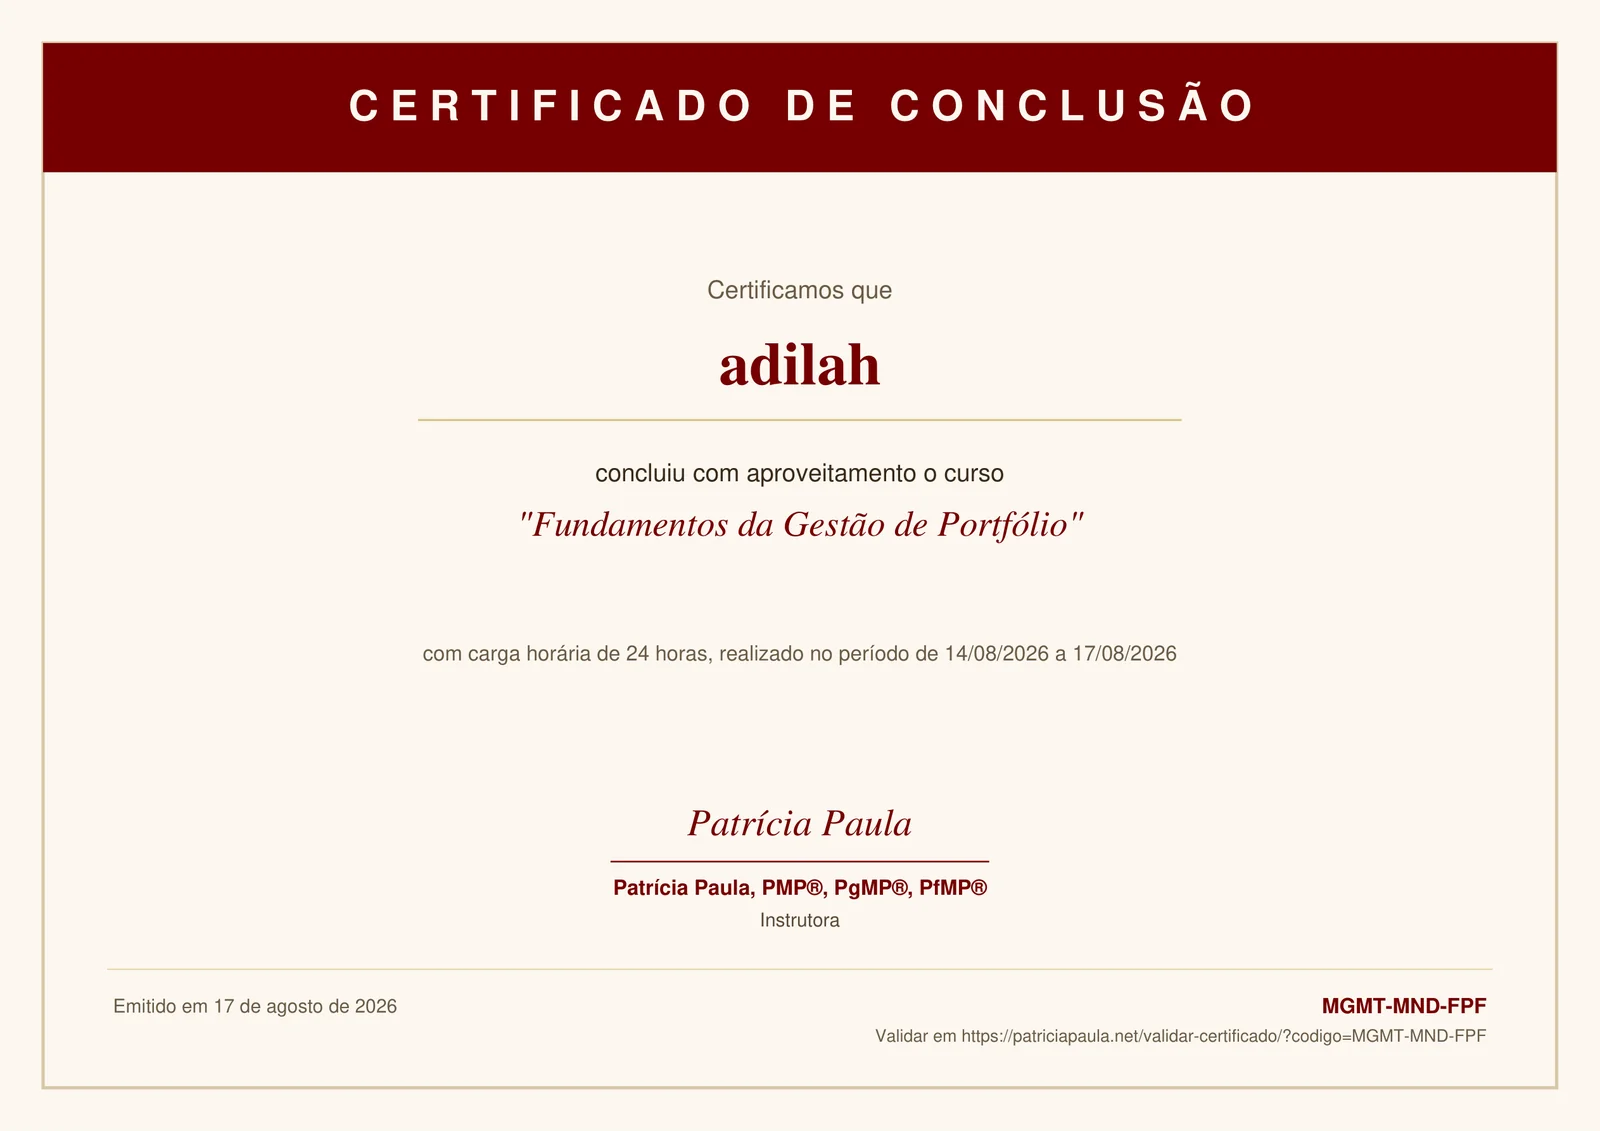
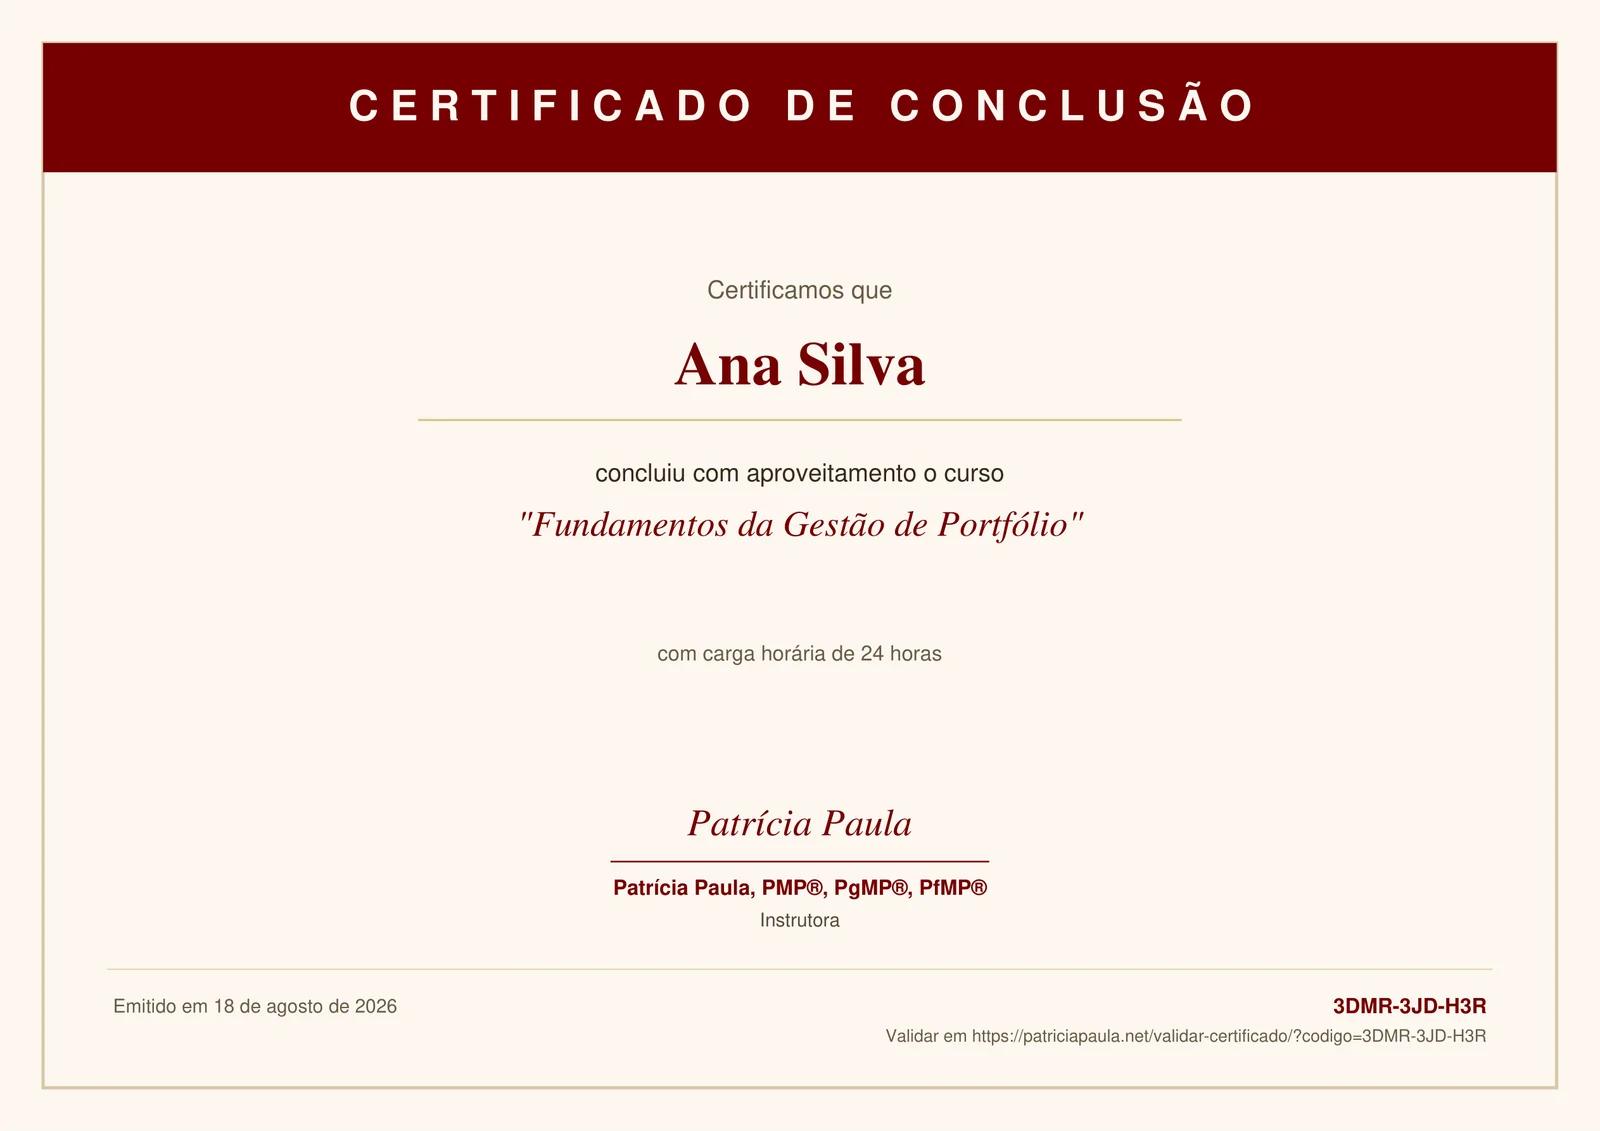
Corrige case Patricia Paula: atualiza print do certificado (Ana Silva) e remove codigo/URL de validacao invalidados

Changed region(s): [[0.5312, 0.8665, 0.9375, 0.9284], [0.25, 0.557, 0.75, 0.588], [0.4062, 0.2785, 0.5938, 0.3404]]

diff --git a/case-patricia-paula.html b/case-patricia-paula.html
@@ -76,7 +76,7 @@ footer p { font-size:12px; color:var(--subtle); margin-top:4px; }
   <section>
     <div class="eyebrow">Sobre o projeto</div>
     <p>Plataforma de cursos e área de membros em WordPress, com Elementor para as páginas públicas e Tutor LMS — na versão gratuita — para curso, avaliação e certificação. A decisão de ficar na versão gratuita do Tutor LMS, em vez de outro LMS com licença anual, evita uma mensalidade de plataforma recorrente: curso, questionário e certificado rodam sem depender de renovação de licença para continuar funcionando com segurança.</p>
-    <p>O ponto que dá corpo ao case é o certificado: ao concluir o curso, o sistema emite automaticamente um certificado com código de validação pública, conferível em <code>patriciapaula.net/validar-certificado/?codigo=...</code>. Qualquer pessoa confirma a autenticidade do documento sem precisar contatar a cliente — o que tira o trabalho manual de emissão e valida o certificado por conta própria.</p>
+    <p>O ponto que dá corpo ao case é o certificado: ao concluir o curso, o sistema emite automaticamente um certificado com um código de validação pública, associado a uma página própria do site que confirma a autenticidade do documento a partir desse código. É uma decisão que tira o trabalho manual de emissão e dá à cliente um jeito de comprovar o certificado sem precisar responder a pedido nenhum por e-mail ou mensagem.</p>
     <p>O acesso ao curso é controlado por prazo — 30, 90 ou 180 dias, configurável por matrícula — o que permite vender o mesmo conteúdo em janelas comerciais diferentes sem duplicar material nem criar uma versão do curso para cada prazo. Separado da aula em si, o hub Método 3P funciona como biblioteca independente: simulados, resumos, flashcards, mapas mentais, dicas de exame, planos de estudo, jogos e templates, organizados em galerias dinâmicas que o aluno acessa fora do fluxo do curso. Login, registro e recuperação de senha seguem a identidade visual da cliente, e questionários registram cada tentativa do aluno.</p>
     <span class="avaliacao-line">Nota 5,0 na Workana, com comentário escrito.</span><br>
     <a class="live-btn" href="https://patriciapaula.net" target="_blank">Ver ao vivo &#8599;</a>
